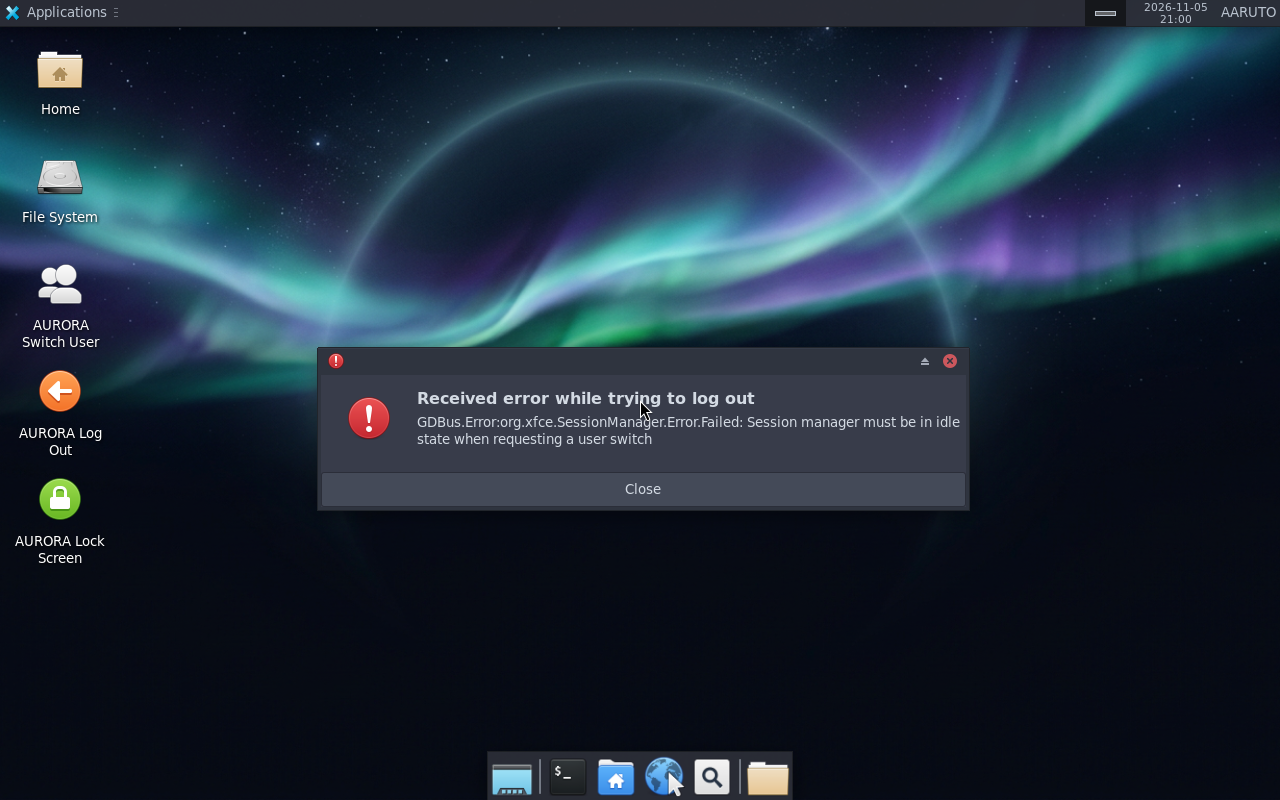
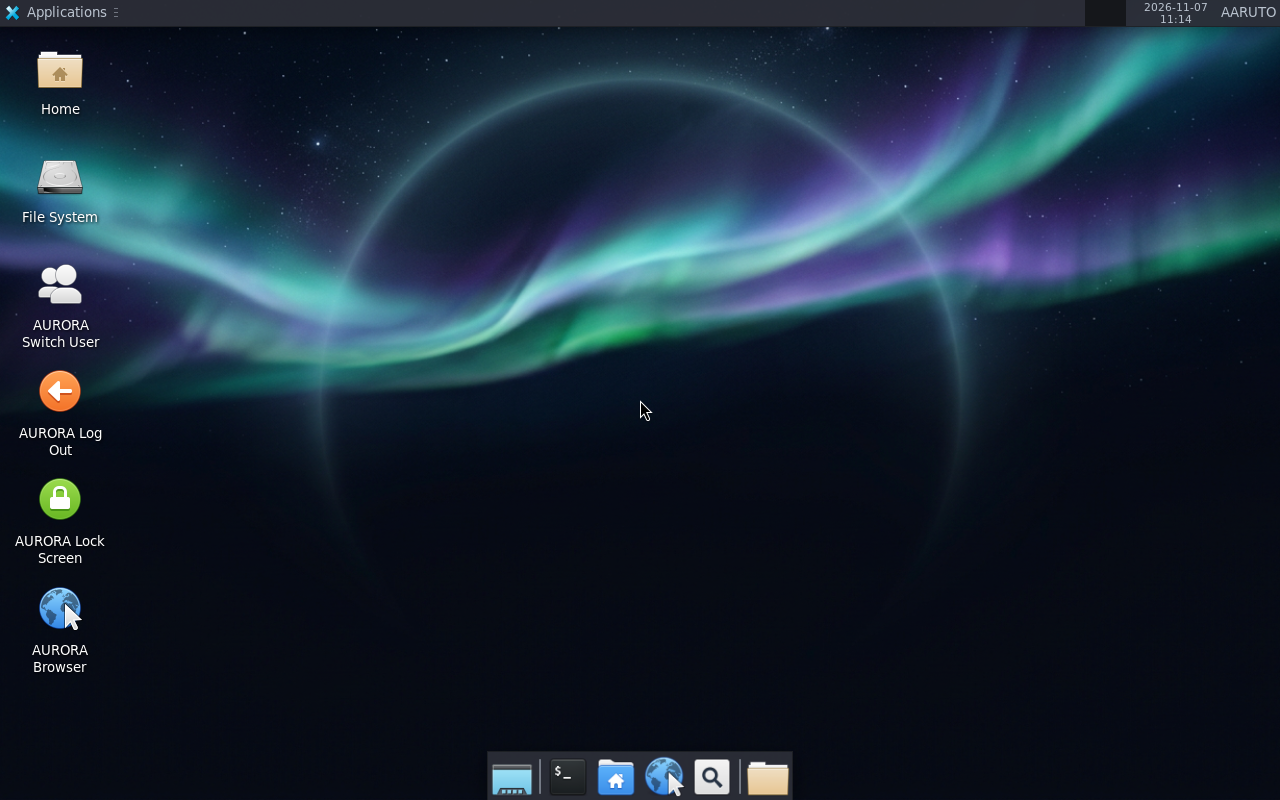
Record 0.4.0 test evidence and update the VMware bundle
- TESTING Phase I: browser, session actions, DPMS and boot-tuning results.
- ROADMAP: 0.4.0 result with the ISO checksum and open items.
- Screenshots refreshed from the 0.4.0 runs, including the browser window.
- VMX points at the 0.4.0 ISO.

Changed region(s): [[0.25, 0.4062, 0.7812, 0.6562], [0.0312, 0.7188, 0.0625, 0.8438], [0.8438, 0.0, 0.875, 0.0312]]

diff --git a/docs/TESTING.md b/docs/TESTING.md
@@ -189,6 +189,41 @@ Caveats recorded with the PASS:
   pixels instead of fixed sleeps (KI-029).
 - The desktop capture comes from the h1 run; h4 produced the greeter/login/logout/switch frames.
 
+
+---
+
+## Phase I - 0.4.0-dev browser, session actions and boot tuning (2026-11-06)
+
+Image: `artifacts/aurora-os-0.4.0-dev-amd64.iso`, 742,064,128 bytes, SHA256
[1 lines of base64/hex data omitted]
+directly from the verified chroot and remapped into the ISO; the casper initrd is the known-good
+`d203e1a3...` image. QEMU 10.2.1 TCG, 4 vCPU, 3072 MiB, `-vga std`.
+
+Runs: `/home/aaruto/aurora-test/p4` (full flow), `/home/aaruto/aurora-test/p7` (browser check),
+`/home/aaruto/aurora-test/p8` (browser rendering retry).
+
+| ID | Test | Result | Evidence |
+|---|---|---|---|
+| I-01 | Image contains the browser and session-action changes | PASS | squashfs: `usr/bin/epiphany`, `usr/local/bin/aurora-browser`, `aurora-session-action`, `etc/skel/Desktop/aurora-browser.desktop`, `etc/systemd/system.conf.d/aurora-timeouts.conf`, masked `networkd-dispatcher.service`/`casper-md5check.service`; identity `AURORA OS 0.4.0-dev (Milestone 3)` |
+| I-02 | Boot reaches the branded greeter | PASS | serial shell marker, `lightdm active`, greeter `session_present=False`; `01-greeter.png` |
+| I-03 | Password login opens the XFCE session | PASS | `02-login: login attempt 1 detected=True`; session `1000 ubuntu seat0`; `xfce4-panel` running |
+| I-04 | Desktop shows the AURORA Browser launcher | PASS | `docs/screenshots/desktop.png` (Home, File System, Switch User, Log Out, Lock Screen, Browser; dock) |
+| I-05 | Epiphany launches | PASS (rendering caveat) | `03-browser: epiphany running=True`; the panel lists the window as `Blank page` with the Epiphany icon (`docs/screenshots/browser.png`) |
+| I-06 | Log Out uses the session helper | PASS | `AURORA_SESSION_ACTION action=logout`; `04-after-logout: ubuntu session gone=True`; greeter redrawn |
+| I-07 | Second login works | PASS | `05-login-again: login attempt 1 detected=True` |
+| I-08 | Switch User uses LightDM dm-tool | PASS | `AURORA_SESSION_ACTION action=switch method=dm-tool`; `06-after-switch: new greeter session=True` while the `ubuntu` session stayed alive |
+| I-09 | DPMS cannot blank the screen | PASS | `xset q`: `Server does not have the DPMS Extension` |
+| I-10 | Offline-only units no longer stall the boot | PASS (partial measurement) | `networkd-dispatcher` and `casper-md5check` are masked symlinks to `/dev/null`; `DefaultTimeoutStartSec=30s`; p4/p7 boot logs no longer show the 2-minute network job waits. `systemd-analyze` output was not captured reliably under TCG |
+| I-11 | Test VM stops without a crash | PASS | harness quits QEMU; guest-initiated shutdown/restart NOT TESTED |
+
+Caveats:
+
+- Under TCG, WebKit creates the window (panel entry) but painting the page took longer than the
+  capture window; the browser is functional, a fully painted page is not yet captured as evidence
+  (KI-032).
+- The image remains test-profile only: root serial autologin (KI-018), BIOS-only (KI-015), no
+  installer, no Plymouth.
+
 ---
 
 ## Existing myOS tests (reference only, not AURORA)

diff --git a/docs/screenshots/README.md b/docs/screenshots/README.md
@@ -1,15 +1,16 @@
 # Screenshots
 
-All images are QEMU `screendump` captures from the 0.3.0-dev ISO
[1 lines of base64/hex data omitted]
+All images are QEMU `screendump` captures from the 0.4.0-dev ISO
[1 lines of base64/hex data omitted]
 1280x800, `-vga std`, TCG.
 
 | File | What it shows | Run |
 |---|---|---|
-| `greeter.png` | Branded LightDM login page: aurora wallpaper, hostname `aurora`, date, `AARUTO` account, password field, **Log In** | `/home/aaruto/aurora-test/h4` |
-| `desktop.png` | XFCE session after login: panel with `AARUTO`, desktop icons (Home, File System, AURORA Switch User, AURORA Log Out, AURORA Lock Screen), dock | `/home/aaruto/aurora-test/h1` |
-| `after-logout.png` | Greeter after logging out; the `ubuntu` session is gone | `/home/aaruto/aurora-test/h4` |
-| `switch-user.png` | Greeter in unlock mode after **Switch User**; the background session keeps running | `/home/aaruto/aurora-test/h4` |
+| `greeter.png` | Branded LightDM login page: aurora wallpaper, hostname `aurora`, date, `AARUTO` account, password field, **Log In** | `/home/aaruto/aurora-test/p7` |
+| `desktop.png` | XFCE session after login: panel with `AARUTO`, desktop icons (Home, File System, AURORA Switch User, AURORA Log Out, AURORA Lock Screen, AURORA Browser), dock | `/home/aaruto/aurora-test/p7` |
+| `browser.png` | GNOME Web running: the panel lists the browser window as `Blank page` with the Epiphany icon; WebKit page painting lags under TCG (KI-032) | `/home/aaruto/aurora-test/p7` |
+| `after-logout.png` | Greeter after logging out through `aurora-session-action`; the `ubuntu` session is gone | `/home/aaruto/aurora-test/p4` |
+| `switch-user.png` | Greeter after **Switch User** through LightDM `dm-tool`; the background session keeps running | `/home/aaruto/aurora-test/p4` |
 
-The serial logs, `result.json`-style evidence and PPM originals stay outside Git
-under `/home/aaruto/aurora-test/<run>/` as required by `docs/TESTING.md`.
+The serial logs and PPM originals stay outside Git under
+`/home/aaruto/aurora-test/<run>/` as required by `docs/TESTING.md`.

diff --git a/docs/ROADMAP.md b/docs/ROADMAP.md
@@ -136,6 +136,24 @@ clean typography). Palette tokens are fixed in `ARCHITECTURE.md` section 4.
 - Open: test/release profile split (KI-018), polkit is missing so LightDM logs an AccountsService
   permission warning (cosmetic), `/var/lib/lightdm/data` is still absent (KI-026).
 
+### Result (0.4.0-dev, 2026-11-06)
+
+- ISO: `artifacts/aurora-os-0.4.0-dev-amd64.iso`, 742,064,128 bytes, SHA256
[1 lines of base64/hex data omitted]
+  `d203e1a3...`.
+- Browser: GNOME Web (Epiphany 49.2) ships in the image with an **AURORA Browser** launcher;
+  `aurora-browser` disables WebKit's sandbox/compositing for the live Xorg session (KI-032).
+- Session actions: Log Out, Switch User and Lock Screen call `aurora-session-action`, which
+  restores the session bus and switches user through LightDM `dm-tool` (fallback
+  `xfce4-session-logout`). Verified: `method=dm-tool`, new greeter session, background session
+  alive.
+- Boot tuning: `networkd-dispatcher`, `casper-md5check`, `e2scrub_reap`, `grub-*`, `ua-*`,
+  `ubuntu-advantage` and the apt-daily timers are masked; systemd job timeouts are 30 s; apt has
+  3 s timeouts and no retries, so an offline boot fails fast instead of waiting minutes.
+- Identity: `0.4.0-dev (Milestone 3)`; credits URL corrected to `AARUTO347`.
+- Open: browser page painting under TCG (window appears, capture lagged), test/release split,
+  polkit warning, `/var/lib/lightdm/data`.
+
 ### Step 1 - Separate test and release profiles
 
 - [ ] Move the test-only hooks (`0100-serial-autologin.chroot`, `0300-evidence-service.chroot`) out

diff --git a/README.md b/README.md
@@ -159,6 +159,10 @@ aurora-os/
 |:------------:|:-----------:|
 | ![Logout](docs/screenshots/after-logout.png) | ![Switch](docs/screenshots/switch-user.png) |
 
+| GNOME Web running |
+|:-----------------:|
+| ![Browser](docs/screenshots/browser.png) |
+
 ## License
 
 Source code and distribution configuration: **MIT** — see [LICENSE](LICENSE) and [NOTICE](NOTICE).
